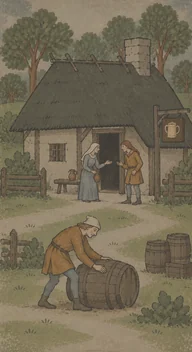
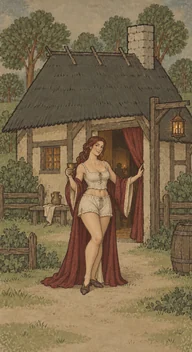
art: revise Pleasure House cards with linen-underwear wardrobes

diff --git a/docs/MANUSCRIPT_ART.md b/docs/MANUSCRIPT_ART.md
@@ -15,12 +15,14 @@ Construction-card seals are round 34px medallions with a 26px symbol, pale parch
 
 Each painting has its own source file. There are no shared atlas rows, so Mine/Fisherman's Hut cannot inherit fragments of a neighboring illustration. Cards use proportion-preserving cover scaling; wide scenes display their full authored aspect. Short windows scroll the preview rather than squeezing it into a thin strip. Authored colors are displayed without a second saturation/brightness correction; planned cards retain their existing muted state.
 
+The Pleasure House pair was revised to depict clearly adult female hosts in opaque linen camisoles/drawers and open burgundy/slate-blue robes. The portrait uses one welcoming auburn-haired host; the wide painting uses the same wardrobe and character alongside a seated blonde host. The scene remains non-explicit. The output/service seal, dimensions and existing recreation rules are retained. Exact final prompts and reference filenames are recorded under `pleasureHousePrompts` in the source map.
+
 ## Ownership and preparation
 
 - `assets/ui/manuscript/card/*.webp`: 28 portrait paintings, 192×352.
 - `assets/ui/manuscript/building/*.webp`: 28 wide paintings, 640×240.
 - `assets/ui/manuscript/manifest.json`: inventory, sizes, aliases, title/portrait crops.
-- `assets/ui/manuscript/art-sources.json`: all 56 selected imagegen filenames, exact shared style prompt, per-subject briefs, variant instructions and final Forester prompts.
+- `assets/ui/manuscript/art-sources.json`: all 56 selected imagegen filenames, exact shared style prompt, per-subject briefs, variant instructions and final Forester/Pleasure House prompts.
 - `scripts/prepare-painted-art.py`: developer-only Pillow crop/resize/encode utility. Requires one unique source for every card/wide pair and rejects source paths outside the supplied directory.
 - `scripts/prepare-manuscript-ui.mjs`: deterministic checked-in CSS bindings and vector generation.
 - `scripts/manuscript-icons.mjs`: original ink-and-cream vector recipes.
@@ -41,7 +43,7 @@ Pillow only crops, resizes and encodes the generated output; it does not repaint
 
 ## Budget and remaining limits
 
-The 56 building paintings, ten portraits and emblems total **1,414,127 bytes (1.35 MiB)**, excluding font/decorative trim. The seal correction adds 3,091 bytes to this inventory. The largest file is 44,180 bytes. Tests cap this inventory at **2 MiB total and 64 KiB per file**. The larger inventory replaces the previous 0.93 MiB single-scene set. Browser caching reuses the wide file across previews and inspectors. There are no runtime image-generation calls, new Three.js objects, per-agent artwork controllers or world-rendering changes.
+The 56 building paintings, ten portraits and emblems total **1,428,201 bytes (1.36 MiB)**, excluding font/decorative trim. The seal correction added 3,091 bytes; the revised Pleasure House pair adds a further 14,074 bytes. Its card is 17,334 bytes and wide painting 31,588 bytes. The largest file is still 44,180 bytes. Tests cap this inventory at **2 MiB total and 64 KiB per file**. The larger inventory replaces the previous 0.93 MiB single-scene set. Browser caching reuses the wide file across previews and inspectors. There are no runtime image-generation calls, new Three.js objects, per-agent artwork controllers or world-rendering changes.
 
 Runtime wide paintings are 640×240; high-DPI displays can expose their modest resolution. Cover cropping in the shortest cards removes some peripheral scene area, bounded below 25% by the fit tests. Important subjects were composed away from the edges, but visual quality remains subject to user review. The retained portraits have not been repainted in this building-art redo. Legacy fallback art remains in the base stylesheet/repository and is still emitted by Vite, adding unused asset weight. The pre-existing large JavaScript chunk warning and world-rendering limits remain; no new settlement performance envelope is claimed.
 
@@ -52,6 +54,8 @@ Install, architecture check, strict typecheck, **210 tests** and production buil
 Production browser checks covered all five construction categories, live/planned card bindings, Forester/Mine/Fisherman previews, Blacksmith staffing add/remove, General/People/Advanced, expanded operations and Save → reload → Load with the assignment retained. Responsive views were 800×600, 1280×720, 1440×900 and 1920×1080 CSS pixels. The gallery covered all 28 card/preview/header/title combinations. No production console errors were captured.
 
 The output-seal correction was additionally checked in the rebuilt production game across all five categories, at 1280×720 and 800×600. All eight Industry seals remained circular with their symbols contained inside the cards; Forester hover still reported its 35 Wood construction cost. All 28 gallery seals had loaded symbol bindings and equal width/height. No production console errors were captured during these checks.
+
+The revised Pleasure House pair passes the existing dimension, source-inventory, fit and payload tests. Browser checks cover its card, title thumbnail, hover painting and building-header painting in the comparison gallery, plus the Services card and hover panel in the rebuilt production game at 1280×720. The card uses cover; both wide slots retain the complete 8:3 painting. No production console errors were captured. See [the fitted artwork](qa/ui-pleasure-house-art.png).
 
 For repeatable visual QA, run the development server and open `/ui-art-fit.html`. **All cards** shows the complete inventory. **Compare sizes** shows portrait card, hover artwork, title thumbnail and wide building header side by side; category filters make the set manageable. Portraits & icons shows existing 40px/24px faces and resource/category/service/task/command emblems. The gallery does not start simulation, mutate saves or ship in the production entry.
 

diff --git a/docs/MILESTONES.md b/docs/MILESTONES.md
@@ -12,6 +12,7 @@
 - [x] Development-only gallery covers every card, header, title thumbnail, portrait and emblem at the game's sizes
 - [x] Growing inspector content re-clamps above the dock; available height respects the status ribbons
 - [x] Circular output/service emblems across all 28 cards; configured producer outputs, retained hover costs and planned-state coverage tested
+- [x] Pleasure House card/wide pair revised with adult linen-underwear wardrobes; gallery fit and production card/hover verified
 - [ ] Final art-direction approval
 
 See [assets, direction brief, budgets and limits](MANUSCRIPT_ART.md). This pass adds no gameplay milestone or population/performance claim.
